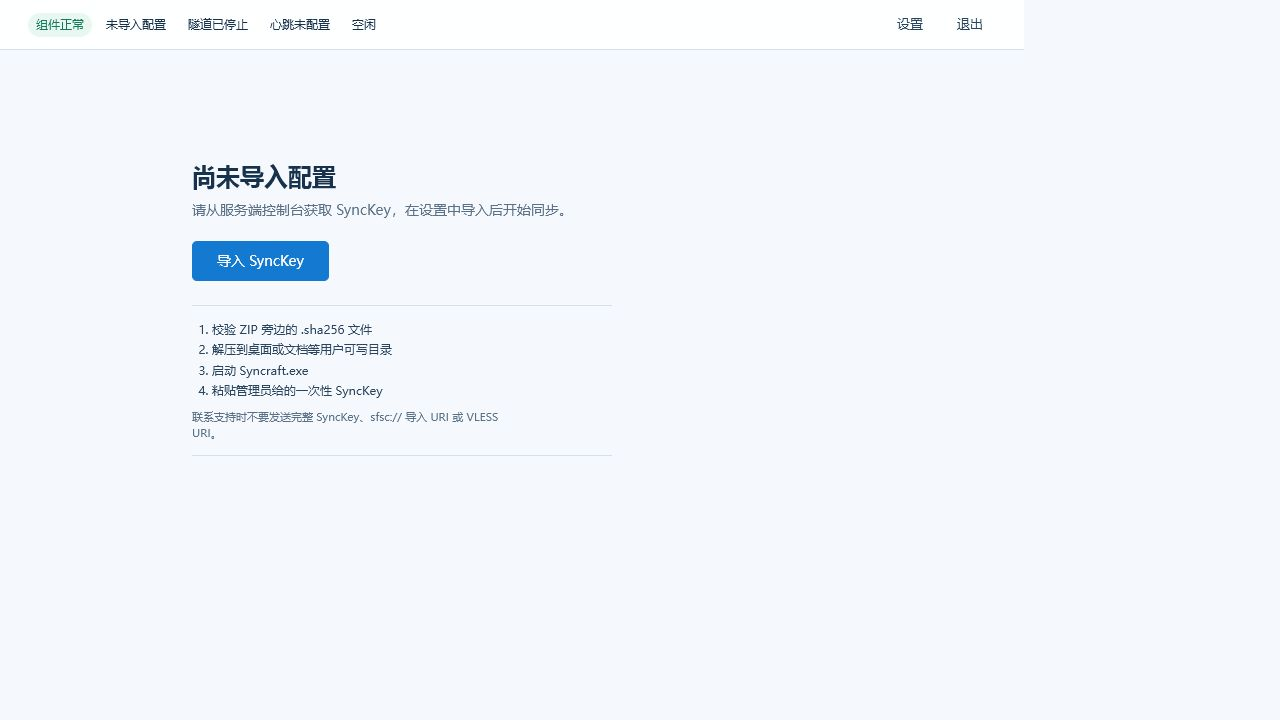
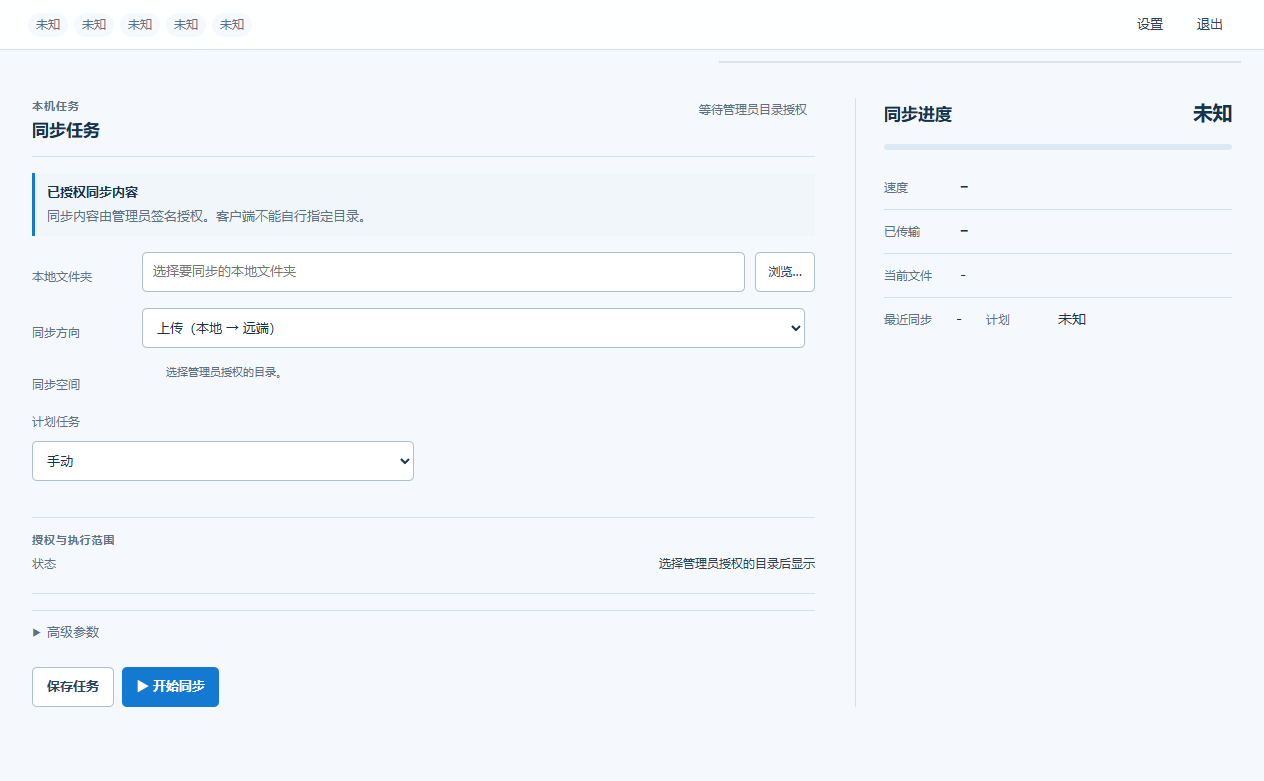
docs(readme): 更新主仓与客户端 README 及桌面端实际界面截图

diff --git a/README.md b/README.md
@@ -1,47 +1,44 @@
 # Syncraft
 
-> 将 Windows 普通目录与自托管 N1/Linux 目录双向同步的工具，连接配置码与设备身份验证码分步使用。
+> 将 Windows 普通目录与自托管 N1/Linux 目录安全双向同步的工具，通道配置码与设备身份验证码分步使用。
 
-普通目录模式面向 N1/Linux 主机上由管理员开放的既有目录。客户端先导入管理员签发的通道配置码，再提交设备身份申请；管理员独立签发身份验证码后，用户选择获授权的目录和本地文件夹，确认首次双向冲突，再启用自动同步。通道配置码建立接入通道，身份验证码验证设备身份，两者不可互换。同步流量只由受管理的同步进程通过本地数据通道传输，不修改系统代理、路由、DNS、TUN 或防火墙。
+普通目录模式面向 N1/Linux 主机上由管理员开放的既有目录。客户端先导入管理员签发的**通道配置码**建立受信任接入通道，再提交设备身份申请；管理员在控制台勾选授权目录并独立签发**一次性身份验证码**后，用户在客户端完成核验、选择获授权目录与 Windows 本地文件夹、处理首次双向冲突（支持一键保存双方版本）并显式确认初始化，随后即可执行手动或定时自动同步。通道配置码建立接入通道，身份验证码验证设备身份并绑定目录授权，两者职责分离、不可互换。同步流量仅由受管理的同步子进程通过本地数据通道传输，不修改系统代理、路由、DNS、TUN 或防火墙。
 
-当前工作以产品化基线为基础，处于产品验收候选阶段，尚不能据此判断已发布或生产就绪。Windows 客户端当前以 ZIP 包形态交付；本仓库没有 Windows 安装程序。N1 普通目录部署入口见 [`server/DEPLOYMENT.md`](server/DEPLOYMENT.md)，其安装脚本为 `server/install-n1-directory-appliance.sh`。本 README 不提供新的公网性能结论。
+当前版本建立在完整产品化基线之上，已完成目录优先（Ordinary-Directory Appliance）全链路重构、白盒安全加固、严格发布预检（`37 pass / 0 warn / 0 fail`）、1011 项单元与契约测试及 Windows + N1 隔离容器端到端验收闭环。Windows 客户端以免安装便携式 ZIP 包形态交付（默认推荐 Electron 桌面端 `SyncraftDesktop.zip`，同时提供 Node 便携回退包 `SyncraftClient.zip`）。N1 普通目录部署入口见 [`server/DEPLOYMENT.md`](server/DEPLOYMENT.md)，安装脚本为 `server/install-n1-directory-appliance.sh`。
 
-本版在 rc.1 基线上完成了一轮完整的白盒安全审查与加固：管理 Token 默认强制、凭证不再经命令行传递、密钥文件写入前先收紧 ACL、心跳与 SyncKey 兑换限速、本地接口读写均拒绝跨站浏览器请求、二进制与容器镜像按哈希/digest 钉定。审查结论与逐项实施记录见 [`SECURITY_REVIEW_2026-07-25.md`](SECURITY_REVIEW_2026-07-25.md) 与 [`SECURITY_HARDENING_CLOSEOUT_2026-07-26.md`](SECURITY_HARDENING_CLOSEOUT_2026-07-26.md)。
+本版在既有安全加固基线（管理 Token 默认强制、凭证不经命令行传递、密钥文件写入前收紧 ACL、心跳与兑换限速、本地读写接口拒绝跨站浏览器请求、二进制与容器镜像按哈希/digest 钉定，详见 [`SECURITY_REVIEW_2026-07-25.md`](SECURITY_REVIEW_2026-07-25.md) 与 [`SECURITY_HARDENING_CLOSEOUT_2026-07-26.md`](SECURITY_HARDENING_CLOSEOUT_2026-07-26.md)）之上，新增了 Go 原生 SFTP 与关系守护服务（`sfsc-sftp-service` / `sfsc-relation-supervisor` / `sfsc-root-guard`）、Linux 目录根不可变标记（`.sfsc-directory-root.json`）保护、授权关系/设备撤销实时终止在途传输（`SIGTERM`）以及连接修复与无损重配能力。
 
-MinIO/S3 仍作为兼容模式保留，可从 [`server/DEPLOYMENT_AND_MIGRATION_GUIDE.md`](docs/DEPLOYMENT_AND_MIGRATION_GUIDE.md) 查阅旧部署与迁移说明；普通目录模式不要求配置 MinIO。两种 appliance 模式共享状态和端口，不能同时运行，切换前请按部署文档核对服务状态。
+MinIO/S3 仍作为兼容模式保留，可从 [`docs/DEPLOYMENT_AND_MIGRATION_GUIDE.md`](docs/DEPLOYMENT_AND_MIGRATION_GUIDE.md) 查阅旧部署与迁移说明；普通目录模式不依赖或部署 MinIO。两种 appliance 模式共享状态和端口，不能同时运行，切换前请按部署文档核对服务状态。
 
-## 用户交付入口
+## 用户交付入口与当前发布版本
 
-本仓库是开发主仓库，统一维护客户端、服务端、共享协议和测试。普通使用者按目标选择独立交付仓库：
+本仓库（[beizhi97/Syncraft](https://github.com/beizhi97/Syncraft)）是开发主仓库，统一维护客户端、服务端、Go/C++ 原生组件、共享协议和测试，并在 [GitHub Releases](https://github.com/beizhi97/Syncraft/releases) 提供完整发布资产。普通使用者也可按角色直接前往独立交付仓库：
 
-- [Syncraft-server](https://github.com/beizhi97/Syncraft-server)：服务端交付仓库入口；请核对对应版本是否已发布普通目录部署资产。
-- [Syncraft-client](https://github.com/beizhi97/Syncraft-client)：Windows 客户端交付仓库入口；本候选尚不能据此认定已有公开下载包。
-
-Windows 客户端当前构建形态是 ZIP，不是安装程序。发布状态须以对应 Release 页面和候选验收记录为准；不要把本地构建产物视为已发布版本。
+- **[Syncraft-client](https://github.com/beizhi97/Syncraft-client)**：Windows 客户端用户下载仓库，可直接从 [Releases](https://github.com/beizhi97/Syncraft-client/releases) 下载已打包并通过严格预检的 `SyncraftDesktop.zip` 与 `SyncraftClient.zip` 及同名 `.sha256` 校验文件。
+- **[Syncraft-server](https://github.com/beizhi97/Syncraft-server)**：服务端部署交付仓库，包含已展开的 N1/Linux 普通目录模式与兼容模式部署文件（`install-n1-directory-appliance.sh`、`DEPLOYMENT.md`、`systemd/`、`runtime/` 等）。
 
 ## 适合谁使用
 
-- 想在 N1/Linux 主机上开放普通目录，并从 Windows 设备双向同步的个人或小团队。
-- 需要分开管理通道接入与设备身份授权，并保留已有任务目录和双向基准的人。
-- 需要保留 MinIO/S3 部署的现有用户；该路径仍作为兼容模式提供。
+- 想在 N1/Linux 主机上直接开放既有普通目录，并从 Windows 设备安全双向同步的个人或小团队。
+- 需要将“通道接入配置”与“设备身份及目录授权”分步管控，并在服务端重设连接配置后完整保留客户端既有任务与双向同步基准的用户。
+- 需要保留既有 MinIO/S3 部署的存量用户；该路径仍作为兼容模式完整保留。
 
-## 你会得到什么
+## 核心能力总览
 
-- 普通目录 appliance：管理员登记主机上已存在的目录，服务端按授权目录为设备提供数据通道。
-- Windows 客户端：支持普通目录上传、下载、双向同步和定时任务；可用目录与方向由服务端授权决定。
-- 分步首次接入：通道配置码与身份验证码分别导入/输入，身份验证后再选择授权目录和本地文件夹。
-- 首次双向冲突保护：用户预览并保存冲突副本，显式确认后才初始化双向同步。
-- 连接修复和重新配置：客户端可修复连接；服务端一键重配可沿用现有设备、任务目录和同步基准。
-- 同步进度、最近历史、脱敏日志和诊断包。
-- 发布候选使用 ZIP、SHA-256、`release-manifest.json` 和 CI/preflight 校验；每个候选包仍需独立验收。
+- **N1/Linux 普通目录 Appliance**：管理员直接登记主机上已存在的目录，服务端按设备授权关系提供受 `sfsc-root-guard` 与 `sfsc-relation-supervisor` 隔离的原生 SFTP 数据通道，无需额外部署对象存储。
+- **分步双码首次接入**：第一步导入通道配置码并提交设备耐久公钥签名的身份申请；第二步输入管理员签发的一次性身份验证码，自动拉取已授权目录范围与允许的同步方向。
+- **Windows 原生文件夹选择与首次双向冲突保护**：Electron 桌面端内置原生文件夹选择器（`选择本地同步文件夹`）；首次双向同步前自动扫描双端同名异内容冲突，支持一键“保存双方版本”（带崩溃恢复日志），并须用户显式点击“初始化双向”后才建立双向同步基线。
+- **一键连接修复与无损通道重配**：客户端内置一键“修复连接”（支持并发互斥保护与中断探测文件自动清理）及自有 `sing-box.exe` 进程异常退出自动重试；服务端一键重设连接配置并签发新通道码后，客户端无需删除既有任务或重建双向同步基线即可平滑恢复同步。
+- **实时权限吊销与历史版本恢复**：管理员撤销单个目录授权关系或停用设备时，服务端实时向对应在途传输会期发送 `SIGTERM` 立即终止，不影响同设备其他授权目录或其他正常设备；支持从客户端历史版本恢复被远端误删的文件及按需调优传输并发参数。
+- **全链路脱敏可观测性**：主界面实时展示速率、传输量、当前文件与最近同步状态；设置抽屉支持组件检测、协议兼容性核对、同步历史/日志查看及一键导出脱敏诊断包。
 
 ## 使用教程
 
-下面按“管理员部署 N1 普通目录服务，Windows 用户完成两码接入”说明。不要把完整通道配置码、身份验证码、管理 Token 或通道连接信息发到聊天群、Issue 或截图中。
+下面按“管理员部署 N1 普通目录服务，Windows 用户完成双码接入与首次同步”说明。切勿将完整通道配置码、一次性身份验证码、管理 Token 或私钥发到聊天群、Issue 或截图中。
 
 ### 1. 管理员部署服务端
 
-准备一台能够运行 Docker 和 systemd 的 N1/Linux 服务器，并由管理员预先创建要开放的主机目录。按 [普通目录部署文档](server/DEPLOYMENT.md) 准备 `.env.directory`，并使用实际脚本 `server/install-n1-directory-appliance.sh` 安装；可先使用脚本的 `SFSC_DIRECTORY_CHECK_ONLY=1` 检查路径和部署输入。该部署说明描述安装操作，不代表此候选已在用户环境安装或发布。
+准备一台运行 Docker 和 systemd 的 N1/Linux 服务器，并由管理员预先创建要开放的主机目录。按 [普通目录部署文档](server/DEPLOYMENT.md) 准备 `.env.directory`，使用 `server/install-n1-directory-appliance.sh` 安装（可先用 `SFSC_DIRECTORY_CHECK_ONLY=1` 预检路径和环境配置）：
 
 ```bash
 sudo install -d -m 0750 /srv/syncraft-shares
@@ -49,78 +46,76 @@ sudo cp server/.env.directory.example server/.env.directory
 sudoedit server/.env.directory
 ```
 
-设置非占位管理 Token 和客户端可访问的服务端地址。不要把 S3/MinIO 密钥加到普通目录配置中。安装命令示例：
+设置强随机 `SFSC_ADMIN_TOKEN` 和客户端可访问的服务端公网/局域网地址（普通目录模式无需填写 S3/MinIO 密钥）。执行安装：
 
 ```sh
 sudo sh server/install-n1-directory-appliance.sh /srv/syncraft-shares
 ```
 
-登录管理控制台后按顺序完成：
+登录管理控制台后按“首次配置”向导顺序完成：
 
-1. 开放管理员预先创建的目录。
-2. 填写外部连接地址，应用连接设置并生成通道配置码。
-3. 在 Windows 客户端导入通道配置码并提交设备身份申请。
-4. 为申请选择获授权的目录，签发独立的一次性身份验证码。
-5. 在客户端输入身份验证码，再选择目录和本地文件夹。
+1. **开放目录**：登记主机上预先创建的共享目录（服务端会自动写入并保护 `.sfsc-directory-root.json` 标记）。
+2. **生成通道配置码**：填写外部连接地址，应用连接设置并生成通道配置码发给客户端用户。
+3. **接收设备申请**：用户在 Windows 客户端导入通道配置码并提交设备身份申请。
+4. **勾选授权目录并签发身份验证码**：在控制台“设备申请”列表中为该申请选择一个或多个获授权目录，签发一次性身份验证码。
+5. **完成配对**：用户在客户端输入一次性身份验证码，即可在授权目录范围内配置同步任务。
 
-普通目录安装不会停止或删除 MinIO。若旧 S3 appliance 已启用，切换时需遵循部署文档的显式替换步骤，不要同时启动两种 appliance unit。
+普通目录安装不会停止或删除已有 MinIO 容器。若旧 S3 appliance 已启用，切换时请按部署文档执行显式替换步骤，不要同时启动两种 appliance unit。
 
 ### 2. 校验并启动 Windows 客户端
 
-使用经过验收并实际发布的 Windows ZIP；若当前只有本地候选包，则从验收交付目录获取 ZIP 和同名 `.sha256` 文件。先在 PowerShell 中核对 ZIP 的 SHA-256，再解压到用户可写且不会被清理的目录，例如 `C:\Tools\Syncraft\`；不要直接在 ZIP、下载临时目录或系统受保护目录中运行。当前没有 Windows 安装程序。
+从 [Syncraft-client Releases](https://github.com/beizhi97/Syncraft-client/releases) 或主仓 Release 下载 `SyncraftDesktop.zip` 和同名 `SyncraftDesktop.zip.sha256`。先在 PowerShell 中核对 SHA-256 哈希，再解压到用户可写且不会被清理的固定目录（例如 `C:\Tools\Syncraft\`），切勿直接在压缩包预览目录、临时目录或系统受保护目录中运行：
 
 ```powershell
 Get-FileHash -LiteralPath .\SyncraftDesktop.zip -Algorithm SHA256
 ```
 
-解压后运行：
+解压后双击运行：
 
 ```text
 SyncraftDesktop\Syncraft.exe
 ```
 
-首次启动时，客户端会显示等待导入状态。这是正常的：它还没有任何服务器配置或同步权限。
+首次启动时，客户端会展示分步首次接入向导，等待导入通道配置码。
 
 ![Syncraft 首次启动实际截图](docs/images/client-first-run.png)
 
 ### 3. 导入通道配置码并完成身份验证
 
-客户端首次运行时先粘贴通道配置码并提交身份申请。管理员在设备申请列表中选择目录并签发身份验证码；用户再将该验证码输入客户端。通道配置码用于建立连接，身份验证码用于验证设备，不要把身份验证码当作连接配置码导入。
+1. 在客户端粘贴管理员提供的**通道配置码**，填写设备名称并点击提交身份申请。
+2. 管理员在服务端控制台为该申请勾选授权目录并生成**一次性身份验证码**。
+3. 在客户端输入该一次性身份验证码完成核验（通道配置码用于建立连接，身份验证码用于核验设备身份与拉取目录授权，请勿混用）。
 
-身份验证本身不表示目录授权或同步已成功。客户端只显示服务端已授予的目录；用户再选择该目录和 Windows 本地文件夹。
+### 4. 选择同步目录、处理首次冲突并启动同步
 
-### 4. 创建同步任务
+身份核验通过后，客户端会自动展示服务端授予的目录范围与允许的同步方向：
 
-授权就绪后，选择获授权目录和 Windows 本地文件夹，再设置同步方向与计划：
-
-1. “本地文件夹”：选择或输入需要同步的目录。这是唯一必填项。
-2. “同步目录”：只显示管理员授权的目录，不允许填写或切换未授权的服务端路径。
-3. “同步方向”：只列出当前目录授权允许的方向。
-4. “计划任务”：首次建议先手动验证。确认目录和首次同步结果无误后，可选择间隔、每日或启动时自动同步；危险同步计划需要明确授权。
-5. 双向同步首次运行前，先查看冲突预览并保存冲突副本，再明确确认初始化。已有 relation/baseline 的任务应继续复用；修复连接或签发新通道码不会要求删除任务或重新建立同步基准。
+1. **选择授权目录**：从服务端已授权目录列表中选择目标同步目录（客户端不允许填写未授权的服务端路径）。
+2. **选择本地文件夹**：点击“浏览…”通过 Windows 原生文件夹选择器选择本地同步目录，或直接粘贴本地路径。
+3. **同步方向与计划任务**：同步方向由服务端授权自动决定或限定；首次运行建议先保持手动模式完成首次同步验证，随后可切换为间隔（如每分钟/每 5 分钟）、每日或启动时自动同步。
+4. **首次双向冲突检查与显式初始化**：首次执行双向同步前，客户端会先执行双端冲突扫描。若双端存在同名不同内容文件，可一键点击**“保存双方版本”**保留两份副本，再点击**“初始化双向”**建立双向同步基准，随后即可正常执行双向增量同步。
+5. **连接修复与通道重配**：日常使用中若遇网络波动可点击**“修复连接”**自检恢复；若服务端更改端口或密钥并签发了新通道配置码，直接导入新通道配置码即可沿用既有授权关系、本地任务与双向同步基准，无需删除任务或重新初始化。
 
 ![同步任务配置实际截图](docs/images/client-task-setup.png)
 
-> 上图摄于早期 S3/SyncKey 界面，可能与当前两码接入和目录选择界面不同；以当前候选客户端实际界面和合同为准。重截流程见 [截图说明](docs/images/README.md)。
-
-自动同步按用户选择的 schedule 运行；每次执行前重新验证当前任务授权、安全计划、目录 marker 和既有双向基准。任何需人工确认的首次初始化都不会由调度器自动执行。
+自动同步按用户保存的调度计划运行；每次触发前都会重新验证当前任务授权、安全计划、目录 marker 与既有双向基准，任何需要人工确认的首次初始化操作绝不会由调度器静默执行。
 
 ### 5. 查看进度与排障
 
-主界面显示速度、传输量、当前文件和最近同步状态。点击“设置”可查看组件检测、协议兼容性、同步历史和日志，并导出脱敏诊断包。
+主界面实时显示传输速度、已传输字节、当前文件、最新同步结果以及历史恢复版本列表。点击右上角“设置”可查看 `sing-box` / `rclone` 组件状态、发布清单摘要、同步历史与运行日志，并支持一键导出脱敏诊断包。
 
-遇到问题时按这个顺序处理：
+遇到异常时建议按以下顺序排查：
 
-1. 确认 ZIP SHA-256 与 `.sha256` 文件一致。
-2. 确认 `sing-box` 和 `rclone` 在“组件检测”中正常。
-3. 查看同步历史和日志中的稳定错误码。
-4. 导出诊断包，备份本地 `data` 后再处理状态损坏或密钥库缺失。
+1. 核对客户端 ZIP 的 SHA-256 与 `.sha256` 文件一致。
+2. 在客户端“设置 -> 组件检测”中确认 `sing-box.exe` 与 `rclone.exe` 校验正常。
+3. 使用主界面“修复连接”检测控制通道与 SFTP 数据通道可达性，并查看稳定错误码提示。
+4. 导出脱敏诊断包，先备份本地 `data/` 目录后再按文档处理本地状态恢复。
 
-常见错误码和恢复步骤见 [部署与迁移指南](docs/DEPLOYMENT_AND_MIGRATION_GUIDE.md#4-windows-客户端本地状态恢复) 与 [试点支持指南](docs/PILOT_SUPPORT_GUIDE.md)。
+常见稳定错误码与恢复步骤见 [部署与迁移指南](docs/DEPLOYMENT_AND_MIGRATION_GUIDE.md#4-windows-客户端本地状态恢复) 与 [试点支持指南](docs/PILOT_SUPPORT_GUIDE.md)。
 
 ## 开发与构建
 
-开发环境需要 Windows、Node.js 24、pnpm 9；只有部署服务端时才需要 Docker Desktop。
+开发环境需要 Windows、Node.js 24、pnpm 9；部署或容器化验证服务端时需要 Docker。
 
 ```powershell
 pnpm install
@@ -192,30 +187,33 @@ GitHub 的 `.github/workflows/ci.yml` 执行发布审计与全量测试；`.gith
 ## 项目结构
 
 ```text
-src/                 服务端 API 与共享核心逻辑
-public/              服务端管理控制台
-client/              Windows 本地 API、Electron、客户端 UI 与构建脚本
-server/              appliance、systemd、Compose 兼容配置和 sing-box 部署文件
-tests/               Node 合同与行为测试
-docs/                协议、设计、部署、试点与交接文档
-scripts/             CI、smoke、发布与 N1 自动化
+src/                 服务端 API、双码授权、连接修复与共享核心逻辑
+public/              服务端管理控制台（含首次配置向导、目录登记、配对与修复）
+client/              Windows 本地 API、Electron 桌面壳、客户端 UI 与打包脚本
+native/              Go 原生服务（sfsc-sftp-service / sfsc-relation-supervisor / sfsc-root-guard）与 C++ 锁组件
+server/              N1 普通目录与兼容模式 appliance、systemd 单元、运行时启动器与部署脚本
+tests/               Node 契约、安全、UI 与端到端行为测试
+docs/                接口合同、API 矩阵、协议 Schema、架构与部署文档
+scripts/             CI、发布审计、smoke、打包与 N1 自动化脚本
 ```
 
 ## 文档导航
 
-- [接口合同](docs/INTERFACE_CONTRACT.md)：客户端和服务端 API、SyncKey、profile、心跳与稳定错误码的唯一基线。
+- [接口合同](docs/INTERFACE_CONTRACT.md)：客户端和服务端 API、双码入网、目录授权、SyncKey、profile、心跳与稳定错误码的唯一基线。
 - [API 矩阵](docs/API_MATRIX.md)：双端路由与调用方。
+- [普通目录部署指南](server/DEPLOYMENT.md)：N1/Linux 普通目录 appliance 部署、升级与排障说明。
+- [目录根安全合同](docs/DIRECTORY_ROOT_CONTRACT.md)：普通目录根标记（`.sfsc-directory-root.json`）与路径边界约束。
 - [部署与迁移指南](docs/DEPLOYMENT_AND_MIGRATION_GUIDE.md)：Docker、N1、客户端状态恢复、升级和发布。
 - [SyncKey 协议](docs/T_KEY_PROTOCOL.md)：旧 S3/MinIO 兼容模式的一次性授权格式和生命周期。
 - [软件设计说明](docs/SOFTWARE_DESIGN_SPEC.md)：整体设计。
-- [内部试运行清单](docs/INTERNAL_TRIAL_CHECKLIST.md) 与 [试点运行手册](docs/PILOT_RUNBOOK.md)：面向小范围试用。
+- [内部试运行清单](docs/INTERNAL_TRIAL_CHECKLIST.md) 与 [试点运行手册](docs/PILOT_RUNBOOK.md)：面向小范围试用与支持。
 
 修改任一 `/api/*` 路由、SyncKey/profile/heartbeat 字段、稳定错误码、诊断字段或发布包结构时，必须同步更新 `docs/INTERFACE_CONTRACT.md`、`docs/API_MATRIX.md` 和对应合同测试。
 
 ## 安全边界
 
 - 不提交 `.env`、`server/data/`、真实 sing-box 配置、本地客户端数据、下载的二进制文件或 `dist/` 产物。
-- 管理 Token、SyncKey、VLESS URI、S3/MinIO 密钥和私钥不得进入 `reports/`、Issue、聊天记录或截图。
+- 管理 Token、通道配置码、一次性身份验证码、SyncKey、VLESS URI、S3/MinIO 密钥和私钥不得进入 `reports/`、Issue、聊天记录或截图。
 - 客户端本地状态默认位于 `%LOCALAPPDATA%\Syncraft\data`；排障前先导出诊断包并备份，不要直接删除状态文件。
 - 客户端本地 API 只绑定 loopback，并校验 Host 头以阻断 DNS 重绑定；读写接口都拒绝 `Sec-Fetch-Site: cross-site` 的浏览器请求。它**刻意不使用鉴权令牌**——已能在本机执行代码的进程可以直接读取本地凭据文件，令牌无法防御该路径，因此防线是进程边界与文件 ACL，而非 HTTP 层令牌。
 - 服务端管理面应置于 HTTPS 反代之后，并始终设置强随机 `SFSC_ADMIN_TOKEN`；MinIO 的 API 与控制台端口默认只绑定 localhost。

diff --git a/client/README.md b/client/README.md
@@ -1,10 +1,10 @@
 # Syncraft Windows Client
 
-This is the Windows portable client for Syncraft, distributed as a ZIP folder rather than an installer. Its directory-first product flow for N1/Linux ordinary-directory mode is: import a channel configuration code, submit a device identity request, enter the administrator-issued identity verification code, select an authorized server directory and a local Windows folder, review first-run bidirectional conflicts, and explicitly confirm initialization before enabling automatic sync. The channel code and identity code serve different steps.
+This is the Windows portable client for Syncraft, distributed as a ZIP folder rather than an installer. Its directory-first product flow for N1/Linux ordinary-directory mode is: import a channel configuration code, submit a device identity request, enter the administrator-issued one-time identity verification code, select an authorized server directory and a local Windows folder via the native folder picker, review first-run bidirectional conflicts (with one-click dual-version preservation), and explicitly confirm initialization before enabling automatic sync. The channel code and identity code serve different steps.
 
-The client can repair its connection and continue existing authorized tasks. Reconfiguring the server connection and receiving a new channel code do not require deleting a saved task or resetting its relation/baseline. MinIO/S3 profile import remains a compatibility path; it is not the default first-run workflow. The client follows the shared interface contract in `../docs/INTERFACE_CONTRACT.md`.
+The client can repair its connection (`POST /api/enrollment/repair`), clean up interrupted probe files on restart, automatically retry transient `sing-box` tunnel exits during active transfers, recover server-deleted files from local history versions, and continue existing authorized tasks. Reconfiguring the server connection and receiving a new channel code do not require deleting a saved task or resetting its relation/baseline. MinIO/S3 profile import remains a compatibility path; it is not the default first-run workflow. The client follows the shared interface contract in `../docs/INTERFACE_CONTRACT.md`.
 
-The project is currently in product acceptance-candidate work. A locally built ZIP is not evidence of public release or production readiness. No new public-network performance conclusion is claimed here.
+Pre-built, preflight-verified Windows release packages (`SyncraftDesktop.zip` and `SyncraftClient.zip`) are published on [Syncraft-client Releases](https://github.com/beizhi97/Syncraft-client/releases) and [Syncraft Releases](https://github.com/beizhi97/Syncraft/releases). Always verify the accompanying `.sha256` checksum file before extracting.
 
 The desktop ZIP contains a portable application folder, not a Windows installer. The unpacked folder contains:
 
@@ -16,7 +16,7 @@ resources/bin/win32/sing-box.exe
 resources/bin/win32/rclone.exe
 ```
 
-The runtime creates `data/` next to the executable after launch. Release packages must not ship with `data/`, because it may contain local profile, job, log, and secret-vault state.
+The runtime creates `data/` next to the executable after launch (or under `%LOCALAPPDATA%\Syncraft\data` when configured). Release packages must not ship with `data/`, because it may contain local profile, job, log, and secret-vault state.
 
 `Syncraft.exe` is an Electron desktop app. It opens its own window and runs only the bundled `sing-box.exe` and `rclone.exe`.
 
